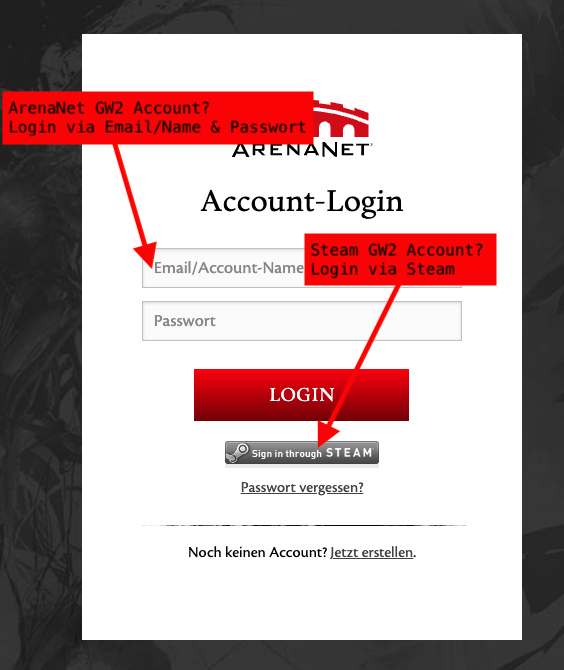
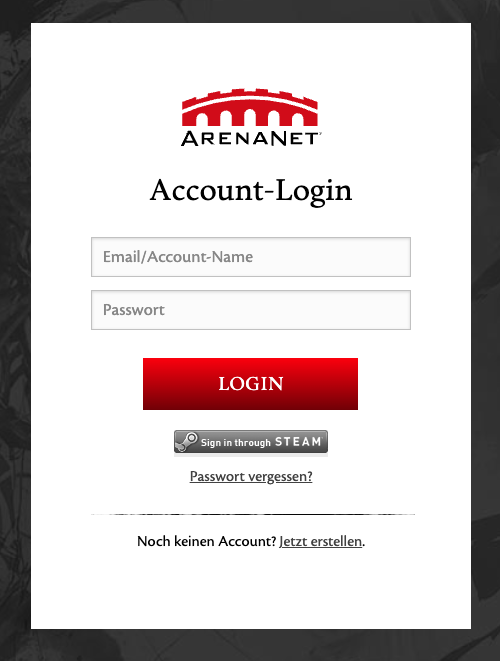
feat: use svg generation for gw2login image

Changed region(s): [[0.0, 0.0303, 0.96, 0.9682], [0.27, 0.8169, 0.75, 0.8472]]

diff --git a/src/components/common/assets.tsx b/src/components/common/assets.tsx
@@ -6,17 +6,47 @@ export interface AssetProps {
   lang: 'en' | 'de';
 }
 
-const responsiveStyle = {
-  height: 'auto',
-  width: '100%',
-} satisfies React.CSSProperties;
+function responsiveStyle(width: number): React.CSSProperties {
+  return {
+    height: 'auto',
+    width: '100%',
+    maxWidth: `${width * 1.2}px`,
+  };
+}
+
+export function Gw2Login({ lang }: { lang: string }) {
+  const href = useMemo(() => `/assets/${lang}/login.png`, [lang]);
+  return (
+    <svg style={responsiveStyle(500)} xmlns='http://www.w3.org/2000/svg' viewBox='0 0 500 661'>
+      <image href={href} width='500' height='661' />
+
+      <Arrow x1={90} y1={260} x2={70} y2={100} rotate={-70} xCorr={10} yCorr={10} />
+      <foreignObject x='10' y='70' width='230' height='100%' color='black' fontSize='1.2em'>
+        <div style={{ backgroundColor: 'red', padding: '5px' }}>
+          <span>ArenaNet GW2 Account?</span>
+          <br />
+          <span>Login via E-Mail & Password</span>
+        </div>
+      </foreignObject>
+
+      <Arrow x1={240} y1={429} x2={330} y2={260} xCorr={4} />
+      <foreignObject x='290' y='230' width='180' height='100%' color='black' fontSize='1.2em'>
+        <div style={{ backgroundColor: 'red', padding: '5px' }}>
+          <span>Steam GW2 Account?</span>
+          <br />
+          <span>Login via Steam</span>
+        </div>
+      </foreignObject>
+    </svg>
+  );
+}
 
 export function CreateAPIToken1({ variant, lang }: AssetProps) {
   const href = useMemo(() => `/assets/${lang}/${variant}/create_api_token_01.png`, [variant, lang]);
 
   if (lang === 'de') {
     return (
-      <svg style={responsiveStyle} xmlns='http://www.w3.org/2000/svg' viewBox='0 0 1106 661'>
+      <svg style={responsiveStyle(1106)} xmlns='http://www.w3.org/2000/svg' viewBox='0 0 1106 661'>
         <image href={href} width='1106' height='661' />
 
         <Arrow x1={990} y1={475} x2={1000} y2={260} />
@@ -27,7 +57,7 @@ export function CreateAPIToken1({ variant, lang }: AssetProps) {
   }
 
   return (
-    <svg style={responsiveStyle} xmlns='http://www.w3.org/2000/svg' viewBox='0 0 1106 661'>
+    <svg style={responsiveStyle(1106)} xmlns='http://www.w3.org/2000/svg' viewBox='0 0 1106 661'>
       <image href={href} width='1106' height='661' />
 
       <Arrow x1={990} y1={460} x2={1000} y2={260} />
@@ -77,7 +107,7 @@ export function CreateAPIToken2({
   const textBgStroke = useMemo(() => (variant === 'dark' ? 'black' : 'white'), [variant]);
 
   return (
-    <svg style={responsiveStyle} xmlns='http://www.w3.org/2000/svg' viewBox='0 0 1106 1105'>
+    <svg style={responsiveStyle(1106)} xmlns='http://www.w3.org/2000/svg' viewBox='0 0 1106 1105'>
       <defs>
         <image id='checkbox' href='/assets/checkbox.png' width='13' height='13' />
       </defs>
@@ -117,7 +147,7 @@ export function CreateAPIToken3({ variant, lang }: AssetProps) {
   })[lang] ?? 0;
 
   return (
-    <svg style={responsiveStyle} xmlns='http://www.w3.org/2000/svg' viewBox='0 0 1106 729'>
+    <svg style={responsiveStyle(1006)} xmlns='http://www.w3.org/2000/svg' viewBox='0 0 1106 729'>
       <image href={href} width='1106' height='729' />
 
       <Arrow x1={985} y1={550 + yAdd} x2={900} y2={360} />
@@ -148,7 +178,7 @@ export function Tradingpost({
   const copperColor = '#da854b';
 
   return (
-    <svg style={responsiveStyle} xmlns='http://www.w3.org/2000/svg' viewBox='0 0 991 731'>
+    <svg style={responsiveStyle(991)} xmlns='http://www.w3.org/2000/svg' viewBox='0 0 991 731'>
       <image href={href} width='991' height='731' />
       <image href={iconHref} width='57' height='57' x='272' y='138' />
 

diff --git a/src/components/add-api-token/add-api-token.tsx b/src/components/add-api-token/add-api-token.tsx
@@ -3,7 +3,9 @@ import {
 } from '@cloudscape-design/components';
 import React, { useState } from 'react';
 import { AllGw2ApiPermissions } from '../../lib/api/api.model';
-import { CreateAPIToken1, CreateAPIToken2, CreateAPIToken3 } from '../common/assets';
+import {
+  CreateAPIToken1, CreateAPIToken2, CreateAPIToken3, Gw2Login, 
+} from '../common/assets';
 import { catchNotify, useAppControls } from '../util/context/app-controls';
 import { useHttpClient } from '../util/context/http-client';
 import { usePreferences } from '../util/state/use-preferences';
@@ -54,7 +56,7 @@ export function AddApiTokenWizard({ onDismiss }: { onDismiss: () => void }) {
           content: (
             <ColumnLayout columns={1}>
               <Box>Visit the <Link href={'https://account.arena.net/applications'} external={true}>Guild Wars 2 Account Page</Link> and login using the Guild Wars 2 Account you wish to add.</Box>
-              <img style={{ height: 'auto', width: '100%', maxWidth: 'min-content' }} src={`/assets/${preferences.effectiveLocale}/login.png`} alt={'Login to your GW2 Account'} />
+              <Gw2Login lang={preferences.effectiveLocale} />
             </ColumnLayout>
           ),
           isOptional: true,

diff --git a/src/components/verification/verification-wizard.tsx b/src/components/verification/verification-wizard.tsx
@@ -23,7 +23,7 @@ import {
 } from '../../lib/api/api.model';
 import { EffectivePreferences } from '../../lib/preferences.model';
 import {
-  CreateAPIToken1, CreateAPIToken2, CreateAPIToken3, Tradingpost, 
+  CreateAPIToken1, CreateAPIToken2, CreateAPIToken3, Gw2Login, Tradingpost,
 } from '../common/assets';
 import { Copy } from '../common/copy';
 import { Gw2ApiPermissions } from '../common/gw2-api-permissions';
@@ -458,7 +458,7 @@ function addApiTokenSteps(preferences: EffectivePreferences, permissions: Readon
       content: (
         <ColumnLayout columns={1}>
           <Box>Visit the <Link href={'https://account.arena.net/applications'} external={true}>Guild Wars 2 Account Page</Link> and login using the Guild Wars 2 Account you wish to verify.</Box>
-          <img style={{ height: 'auto', width: '100%', maxWidth: 'min-content' }} src={`/assets/${preferences.effectiveLocale}/login.png`} alt={'Login to your GW2 Account'} />
+          <Gw2Login lang={preferences.effectiveLocale} />
         </ColumnLayout>
       ),
       isOptional: optional,
